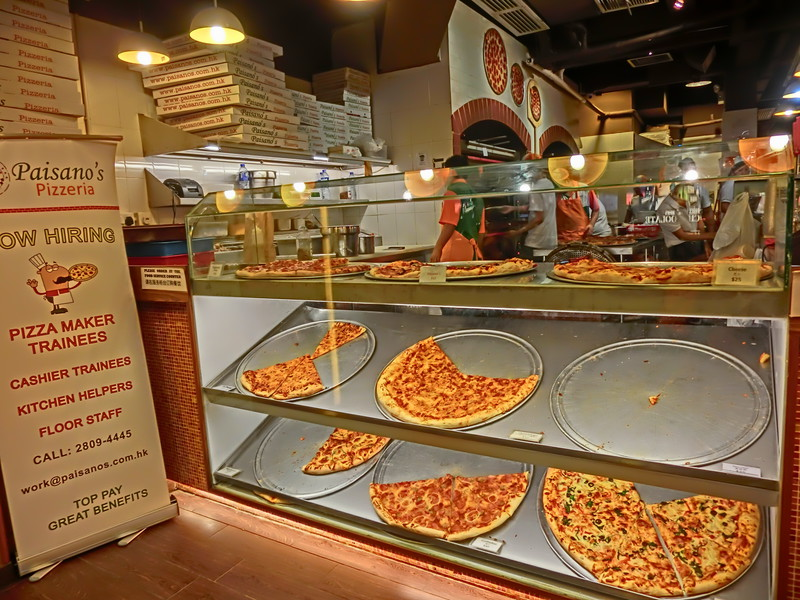
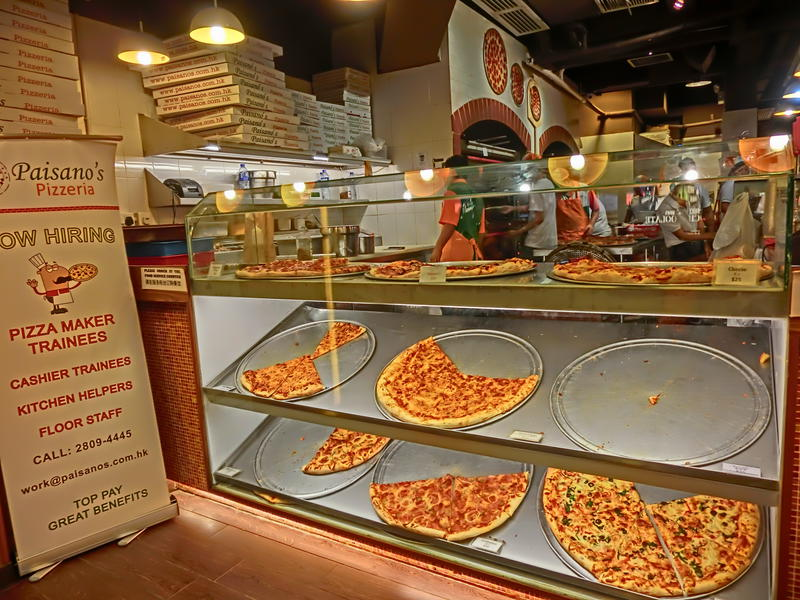
further image optimization

Changed region(s): [[0.6875, 0.81, 0.7188, 0.84]]

diff --git a/Gruntfile.js b/Gruntfile.js
@@ -34,19 +34,19 @@ module.exports = function(grunt) {
         {
           name: "large",
           width: 800,
-          quality: 90,
+          quality: 75,
           suffix: "-2x"
         },
       {
         name: "small",
         width: 480,
-        quality: 90,
+        quality: 75,
         suffix: "-2x"
       },
       {
         name: "thumb",
         width: 100,
-        quality: 90,
+        quality: 75,
         suffix: "-2x"
       },]
           },
@@ -67,7 +67,7 @@ module.exports = function(grunt) {
     /* Clear out the images directory if it exists */
     clean: {
       dev: {
-        src: ['img'],
+        src: ['img_reduced'],
       },
     },
 
